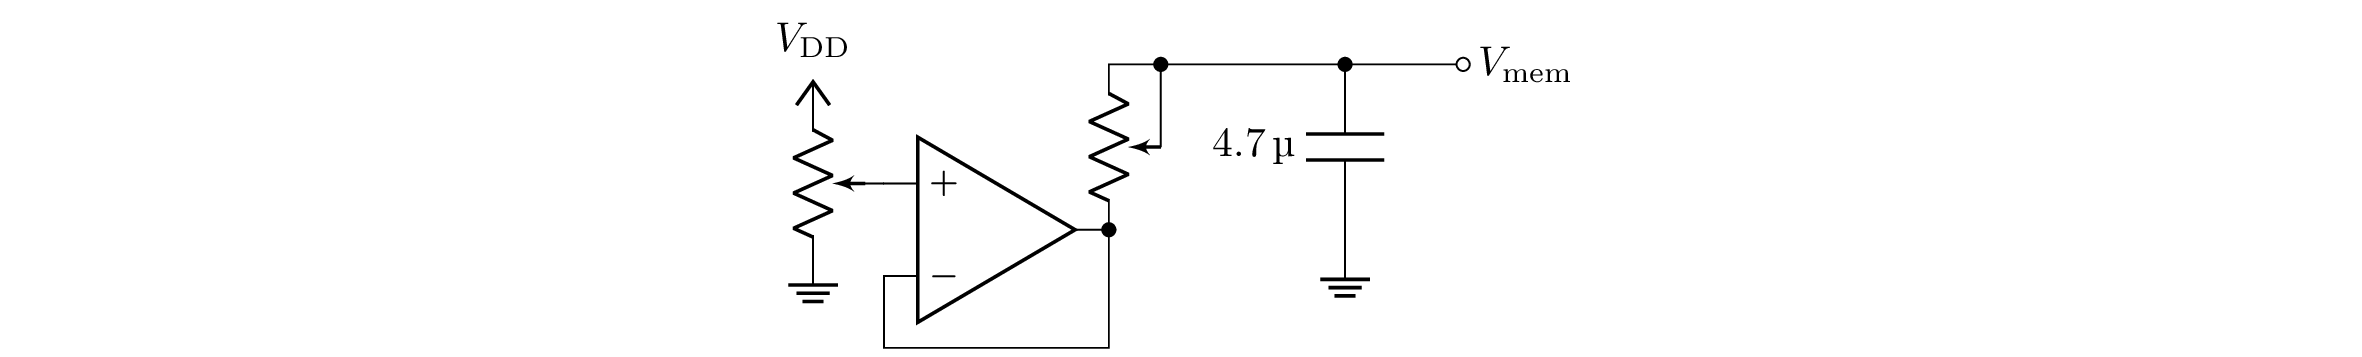
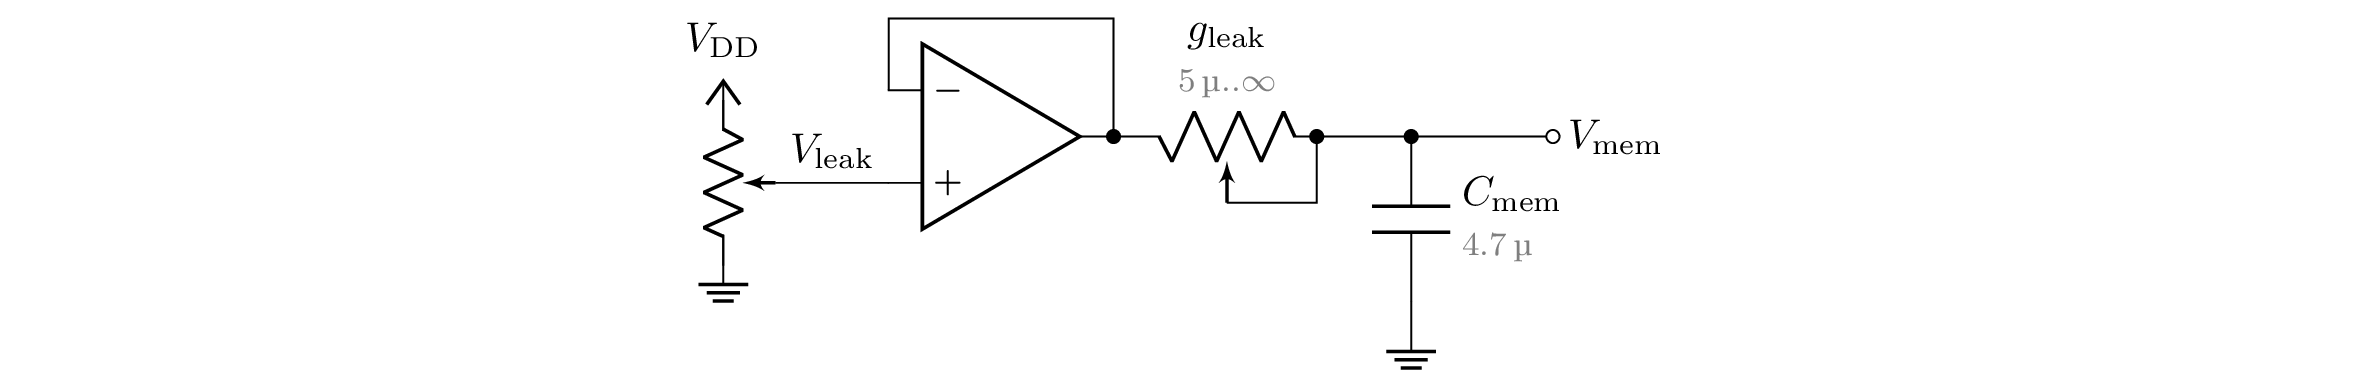
Update schematics according to new sources

diff --git a/doc/figures/pcb/reset.tex b/doc/figures/pcb/reset.tex
@@ -1,44 +1,13 @@
 \documentclass[varwidth=20cm, convert={density=300,outext=.png}]{standalone}
 
 \input{preamble.tex}
+\input{circuits.tex}
 
 \begin{document}
 
 \begin{center}
 \begin{tikzpicture}
-	% threshold comparator
-	\node[op amp, yscale=-1] (thresh comp) at (-0.5, 0) {};
-	\draw (thresh comp.out) to ++(1, 0) node[invschmitt port, anchor=in] (inv) {};
-
-	% refractory comparator
-	\node[op amp, xscale=-1, yscale=-1] (refrac comp) at (0, -4) {};
-	\draw (refrac comp.+) to[short, -o] ++(0.2, 0.0) node[right] {$V_\text{DD}/2$};
-
-	% refractory integrator
-	\draw (refrac comp.-) to[short, -*] ++(2.0, 0.0) coordinate (tmp);
-	\draw (tmp) to[C, l_=\SI{1}{\micro\nothing}] ++(0.0, -1.4) node[ground] {};
-	\draw (tmp) to[short, -*] ++(1.0, 0.0) coordinate (tmp)
-		to[R, l=\SI{22}{\kilo\nothing}] ++(0.0,  1.4) node[vdd] {$V_\text{DD}$};
-
-	% transistor to initiate refractory period
-	\draw (tmp) to[Tnmos, n=m1] ++(0.0, -1.4) node[ground] {};
-	\draw (inv.out) to (inv.out -| m1.G) to (m1.G);
-
-	% reset transistor
-	\draw (refrac comp.out) to ++(-0.5, 0.0) node[nmos, anchor=G, xscale=-1.0, scale=0.82] (m2) {};
-	\draw (m2.D) to[R, l_=\SI{22}{\nothing}] ++(0.0, 1.4) to (m2.D |- thresh comp.-)
-		edge (thresh comp.-)
-		to[short, *-o] ++(-1.0, 0.0) node[left] {$V_\text{mem}$};
-	\draw (m2.S) node[ground] {};
-
-	% resistor network determining threshold voltage
-	\draw (thresh comp.+) to[short, -*] ++(0.0, 1.5) coordinate (tmp);
-	\draw (tmp) to[short, -*] ++(-1.0, 0.0) coordinate (tmp left);
-	\draw (tmp left) to[R, l=\SI{100}{\kilo\nothing}] ++(0.0, 1.4) node[vdd] {$V_\text{DD}$};
-	\draw (tmp left) to[R, l_=\SI{100}{\kilo\nothing}] ++(0.0, -1.4) node[ground] {};
-	\draw (tmp) to[R, l=\SI{100}{\kilo\nothing}, -*] (tmp -| thresh comp.out) coordinate (tmp);
-	\draw (tmp) to[short, -*] (thresh comp.out);
-	\draw (tmp) to[R, l_=\SI{10}{\kilo\nothing}] ++(0.0, 1.4) node[vdd] {$V_\text{DD}$};
+	\pic at (0, 0) {reset};
 
 	\begin{scope}[on background layer]
 		\node[minimum width=20cm, fit=(current bounding box.north west) (current bounding box.south east), inner sep=2pt, fill=white] {};

diff --git a/doc/figures/pcb/synapse.tex b/doc/figures/pcb/synapse.tex
@@ -1,25 +1,12 @@
 \documentclass[convert={density=300,outext=.png}]{standalone}
 
 \input{preamble.tex}
+\input{circuits.tex}
 
 \begin{document}
 
 \begin{tikzpicture}
-	\draw (3.5, 0) node[right] {$V_\text{mem}$} to[short, o-] ++(-1.0, 0.0) to[potentiometer, n=poti 1, -*] ++(-1.4, 0.0) coordinate (tmp);
-
-	\draw (poti 1.left) to[short, -*] ++(0.3, 0.0) |- (poti 1.wiper);
-
-	\draw (tmp) to ++(0.0,  0.5) to[Tpmos, n=m2] ++(0.0,  1.6) node[vdd] {$V_\text{DD}$};
-	\draw (tmp) to ++(0.0, -0.5) to[Tnmos, n=m1, mirror] ++(0.0, -1.6) to ($(m1.G -| m1.D) + (0.0, -1.5)$) node[tlground] {};
-
-	\draw (m1.G) to ++(-1.9, 0.0) coordinate (tmp);
-	\draw (tmp) to[R, l_=\SI{100}{\kilo\nothing}, *-] ++(0.0, -1.5) node[tlground] {};
-	\draw (tmp) to ++(-0.5, 0.0) to ++(0.0, 0.0) to[short, -o] ++(-0.5, 0.0) node[left] {inh. input};
-	
-	\draw (m2.G) node[invschmitt port, anchor=out] (inv) {};
-	\draw (inv.in) to (m2.G -| tmp) coordinate (tmp);
-	\draw (tmp) to[R, l_=\SI{100}{\kilo\nothing}, *-] ++(0.0, -1.5) node[tlground] {};
-	\draw (tmp) to ++(-0.5, 0.0) to ++(0.0, -0.0) to[short, -o] ++(-0.5, 0.0) node[left] {exc. input};
+	\pic at (0, 0) {synapse};
 
 	\begin{scope}[on background layer]
 		\node[minimum width=20cm, fit=(current bounding box.north west) (current bounding box.south east), inner sep=2pt, fill=white] {};

diff --git a/doc/figures/pcb/leaky-integrator.tex b/doc/figures/pcb/leaky-integrator.tex
@@ -1,23 +1,12 @@
 \documentclass[convert={density=300,outext=.png}]{standalone}
 
 \input{preamble.tex}
+\input{circuits.tex}
 
 \begin{document}
 
 \begin{tikzpicture}
-	\draw (0, 0) node[ground] {} to[C, l=\SI{4.7}{\micro\nothing}] ++(0.0, 1.4) coordinate (mem);
-
-	\draw (mem) to[short, *-] ++(-2.0, 0.0) to[potentiometer, n=poti 1] ++(0.0, -1.4) coordinate (tmp);
-	\draw (mem) to[short, -o] ++(1.0, 0.0) node[right] {$V_\text{mem}$};
-	\draw (poti 1.wiper) to[short, -*] (poti 1.wiper |- mem);
-	\draw (tmp) node[op amp, anchor=out, scale=0.8, yscale=-1] (buffer) {};
-	\draw (buffer.out) to[short, *-] ++(0.0, -1.0) coordinate (tmp) to (tmp -| buffer.-) to (buffer.-);
-
-	\draw (buffer.+) ++(-0.6, 0.7) to[potentiometer, n=poti 2] ++(0.0, -1.4);
-	\draw (buffer.+) to (poti 2.wiper);
-
-	\draw (poti 2.right) node[ground] {};
-	\draw (poti 2.left) node[vdd] {$V_\text{DD}$};
+	\pic at (0, 0) {leaky-integrator};
 	
 	\begin{scope}[on background layer]
 		\node[minimum width=20cm, fit=(current bounding box.north west) (current bounding box.south east), inner sep=2pt, fill=white] {};

diff --git a/doc/figures/pcb/overview.tex b/doc/figures/pcb/overview.tex
@@ -8,8 +8,12 @@
 \begin{center}
 \begin{tikzpicture}
 	\pic at (-5.0,  0) {synapse};
-	\pic at (-3.5, -6.5) {leaky-integrator};
+	\pic at (-2.8, -6.9) {leaky-integrator};
 	\pic at ( 5.0, -1.3) {reset};
+
+	\node[right, white, fill=black] at (-9.5,  2.9) {\large\bfseries \vphantom{gl}synapse (\texttimes 3)};
+	\node[right, white, fill=black] at (-9.5, -7.5) {\large\bfseries \vphantom{gl}leaky integrator};
+	\node[left, white, fill=black] at (10.3, 2.9) {\large\bfseries \vphantom{gl}threshold + reset};
 
 	\draw[gray] (-9.3, -4) -- (-0.5, -4);
 	\draw[gray] (0, 2.9) -- (0, -7.4);
